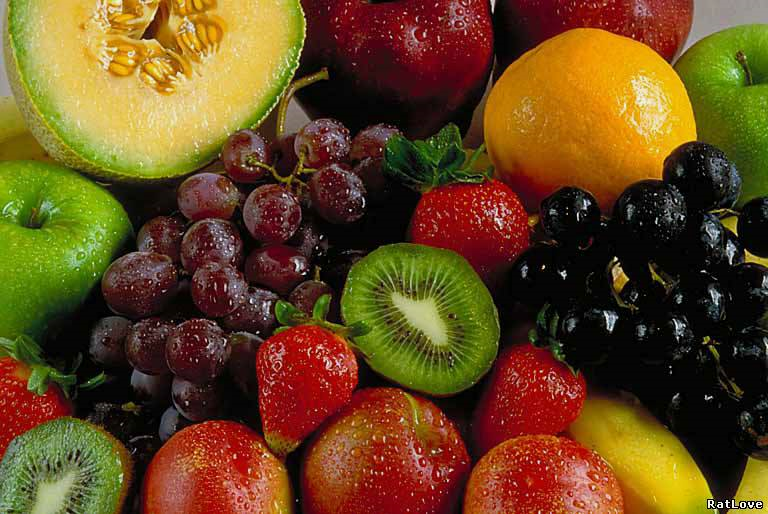
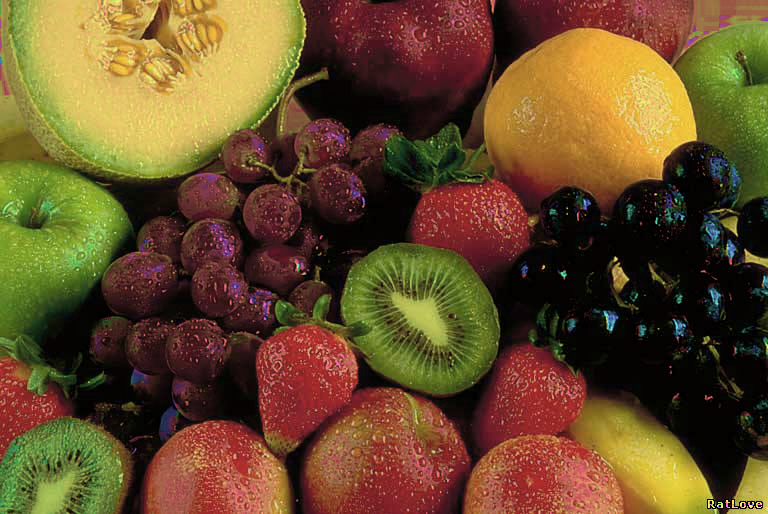
Добавил ползунки в 3е задание

diff --git a/Praph2/Form1.cs b/Praph2/Form1.cs
@@ -7,8 +7,9 @@ namespace Praph2
     public partial class Form1 : Form
     {
         State curentState = State.Task0;
-        private int H;
-        private int W;
+        private int BitmapHeight;
+        private int BitmapWidth;
+        int S, H, V;
 
         private Graphics graphics;
 
@@ -117,8 +118,8 @@ namespace Praph2
             {
                 //сохраняем H S V
                 HSVData = new ValueTuple<double, double, double>[fastBitmap.Width, fastBitmap.Height];
-                H = fastBitmap.Height;
-                W = fastBitmap.Width;
+                BitmapHeight = fastBitmap.Height;
+                BitmapWidth = fastBitmap.Width;
 
                 for (int i = 0; i < fastBitmap.Width; i++)
                 {
@@ -168,14 +169,29 @@ namespace Praph2
             }
 
             graphics.Clear(Color.White);
+            graphics.DrawImage(bitmap, 0, 0, bitmap.Width, bitmap.Height);
 
+            trackBar1.Minimum = -360;
+            trackBar1.Maximum = 360;
+
+            trackBar1.Value = 0;
+
+            trackBar2.Maximum = 256;
+            trackBar2.Minimum = -256;
+            trackBar2.Value = 0;
+
+            trackBar3.Maximum = 256;
+            trackBar3.Minimum = -256;
+            trackBar3.Value = 0;
         }
 
+
+        //сохранение задания 3 по формулам из презы
         private void button4_Click(object sender, EventArgs e)
         {
             if (curentState == State.Task3)
             {
-                Bitmap bitmap = new Bitmap(W, H);
+                Bitmap bitmap = new Bitmap(BitmapWidth, BitmapHeight);
                 using (var fastBitmap = new FastBitmap(bitmap))
                 {
 
@@ -191,22 +207,22 @@ namespace Praph2
                             switch (Hi)
                             {
                                 case 0:
-                                    fastBitmap[i, j] = Color.FromArgb((int)(HSVData[i, j].Item3 * 256), (int)(t * 256), (int)(p * 256));
+                                    fastBitmap[i, j] = Color.FromArgb((int)(HSVData[i, j].Item3 * 255), (int)(t * 255), (int)(p * 255));
                                     break;
                                 case 1:
-                                    fastBitmap[i, j] = Color.FromArgb((int)(q * 256), (int)(HSVData[i, j].Item3 * 256), (int)(p * 256));
+                                    fastBitmap[i, j] = Color.FromArgb((int)(q * 255), (int)(HSVData[i, j].Item3 * 255), (int)(p * 255));
                                     break;
                                 case 2:
-                                    fastBitmap[i, j] = Color.FromArgb((int)(p * 256), (int)(HSVData[i, j].Item3 * 256), (int)(t * 256));
+                                    fastBitmap[i, j] = Color.FromArgb((int)(p * 255), (int)(HSVData[i, j].Item3 * 255), (int)(t * 255));
                                     break;
                                 case 3:
-                                    fastBitmap[i, j] = Color.FromArgb((int)(p * 256), (int)(q * 256), (int)(HSVData[i, j].Item3 * 256));
+                                    fastBitmap[i, j] = Color.FromArgb((int)(p * 255), (int)(q * 255), (int)(HSVData[i, j].Item3 * 255));
                                     break;
                                 case 4:
-                                    fastBitmap[i, j] = Color.FromArgb((int)(t * 256), (int)(p * 256), (int)(HSVData[i, j].Item3 * 256));
+                                    fastBitmap[i, j] = Color.FromArgb((int)(t * 255), (int)(p * 255), (int)(HSVData[i, j].Item3 * 255));
                                     break;
                                 case 5:
-                                    fastBitmap[i, j] = Color.FromArgb((int)(HSVData[i, j].Item3 * 256), (int)(p * 256), (int)(q * 256));
+                                    fastBitmap[i, j] = Color.FromArgb((int)(HSVData[i, j].Item3 * 255), (int)(p * 255), (int)(q * 255));
                                     break;
                             }
 
@@ -219,6 +235,59 @@ namespace Praph2
                 bitmap.Save("../../../../images/результат.jpg");
 
             }
+        }
+
+        //оттенок
+        private void trackBar1_Scroll(object sender, EventArgs e)
+        {
+        }
+        //насыщенность
+        private void trackBar2_Scroll(object sender, EventArgs e)
+        {
+
+        }
+
+        //яркость
+        private void trackBar3_MouseCaptureChanged(object sender, EventArgs e)
+        {
+            double delta = (trackBar3.Value - V) / 256d;
+            for (int i = 0; i < BitmapWidth; i++)
+            {
+                for (int j = 0; j < BitmapHeight; j++)
+                {
+                    HSVData[i, j].Item3 = Math.Min(1, Math.Max(HSVData[i, j].Item3 + delta, 0));
+                }
+            }
+            V = trackBar1.Value;
+        }
+
+        //насыщенность
+        private void trackBar2_MouseCaptureChanged(object sender, EventArgs e)
+        {
+            double delta = (trackBar2.Value - S) / 256d;
+            for (int i = 0; i < BitmapWidth; i++)
+            {
+                for (int j = 0; j < BitmapHeight; j++)
+                {
+                    HSVData[i, j].Item2 = Math.Min(1, Math.Max(HSVData[i, j].Item2 + delta, 0));
+                }
+            }
+            S = trackBar1.Value;
+
+        }
+
+        //цветовой тон
+        private void trackBar1_MouseCaptureChanged(object sender, EventArgs e)
+        {
+            double delta = (trackBar1.Value - H) ;
+            for (int i = 0; i < BitmapWidth; i++)
+            {
+                for (int j = 0; j < BitmapHeight; j++)
+                {
+                    HSVData[i, j].Item1 = Math.Min(359, Math.Max(HSVData[i, j].Item1 + delta, 0));
+                }
+            }
+            H = trackBar1.Value;
         }
     }
 

diff --git a/Praph2/Form1.Designer.cs b/Praph2/Form1.Designer.cs
@@ -66,7 +66,7 @@
             groupBox1.Margin = new Padding(3, 4, 3, 4);
             groupBox1.MinimumSize = new Size(171, 0);
             groupBox1.Name = "groupBox1";
-            groupBox1.Size = new Size(150, 450);
+            groupBox1.Size = new Size(171, 600);
             groupBox1.TabIndex = 0;
             groupBox1.TabStop = false;
             groupBox1.Text = "Панелька";
@@ -96,6 +96,7 @@
             trackBar3.Name = "trackBar3";
             trackBar3.Size = new Size(124, 45);
             trackBar3.TabIndex = 7;
+            trackBar3.MouseCaptureChanged += trackBar3_MouseCaptureChanged;
             // 
             // label2
             // 
@@ -121,6 +122,8 @@
             trackBar2.Name = "trackBar2";
             trackBar2.Size = new Size(124, 45);
             trackBar2.TabIndex = 4;
+            trackBar2.Scroll += trackBar2_Scroll;
+            trackBar2.MouseCaptureChanged += trackBar2_MouseCaptureChanged;
             // 
             // trackBar1
             // 
@@ -128,6 +131,8 @@
             trackBar1.Name = "trackBar1";
             trackBar1.Size = new Size(124, 45);
             trackBar1.TabIndex = 3;
+            trackBar1.Scroll += trackBar1_Scroll;
+            trackBar1.MouseCaptureChanged += trackBar1_MouseCaptureChanged;
             // 
             // button3
             // 
